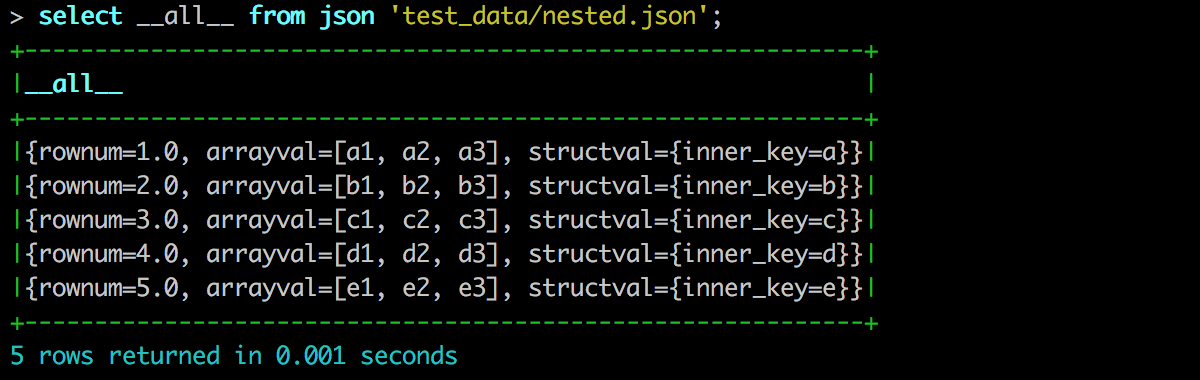
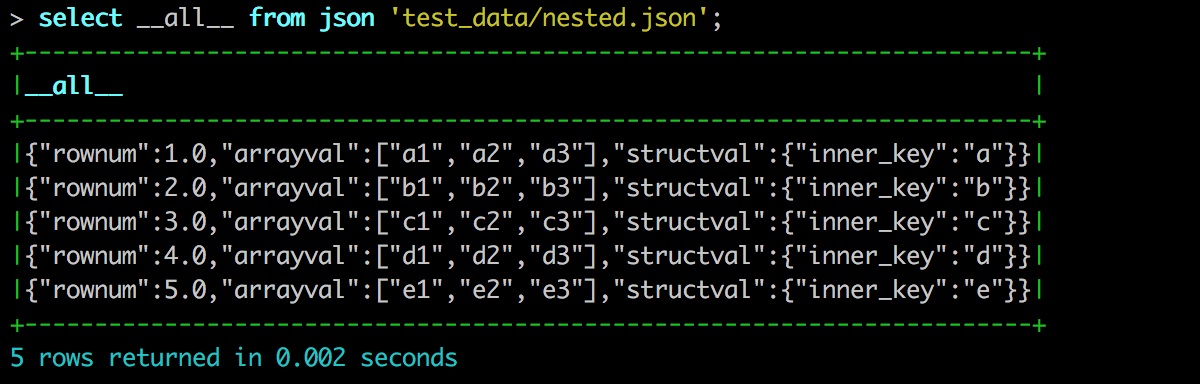
Update stringinspector and shell to render maps and lists as json

diff --git a/src/main/kotlin/jsonsql/functions/objectInspectors.kt b/src/main/kotlin/jsonsql/functions/objectInspectors.kt
@@ -1,5 +1,7 @@
 package jsonsql.functions
 
+import com.google.gson.GsonBuilder
+
 
 object NumberInspector {
     fun inspect(value: Any?): Double? {
@@ -32,10 +34,13 @@ object ArrayInspector {
 }
 
 object StringInspector {
+    private val gson = GsonBuilder().create()
     fun inspect(value: Any?): String? {
         return when(value) {
             is String -> value
             null -> null
+            is List<*> -> gson.toJson(value)
+            is Map<*,*> -> gson.toJson(value)
             else -> value.toString()
         }
     }

diff --git a/src/main/kotlin/jsonsql/shell/shell.kt b/src/main/kotlin/jsonsql/shell/shell.kt
@@ -2,6 +2,7 @@ package jsonsql.shell
 
 import jsonsql.SqlLexer
 import jsonsql.executor.execute
+import jsonsql.functions.StringInspector
 import jsonsql.physical.PhysicalOperator
 import org.antlr.v4.runtime.ANTLRInputStream
 import org.antlr.v4.runtime.Token
@@ -171,6 +172,6 @@ fun stringifyRow(row: List<Any?>) = row.map(::stringifyCell)
 
 fun stringifyCell(cell: Any?): String {
     cell ?: return "NULL"
-    return cell.toString()
+    return StringInspector.inspect(cell)!!
 }
 
